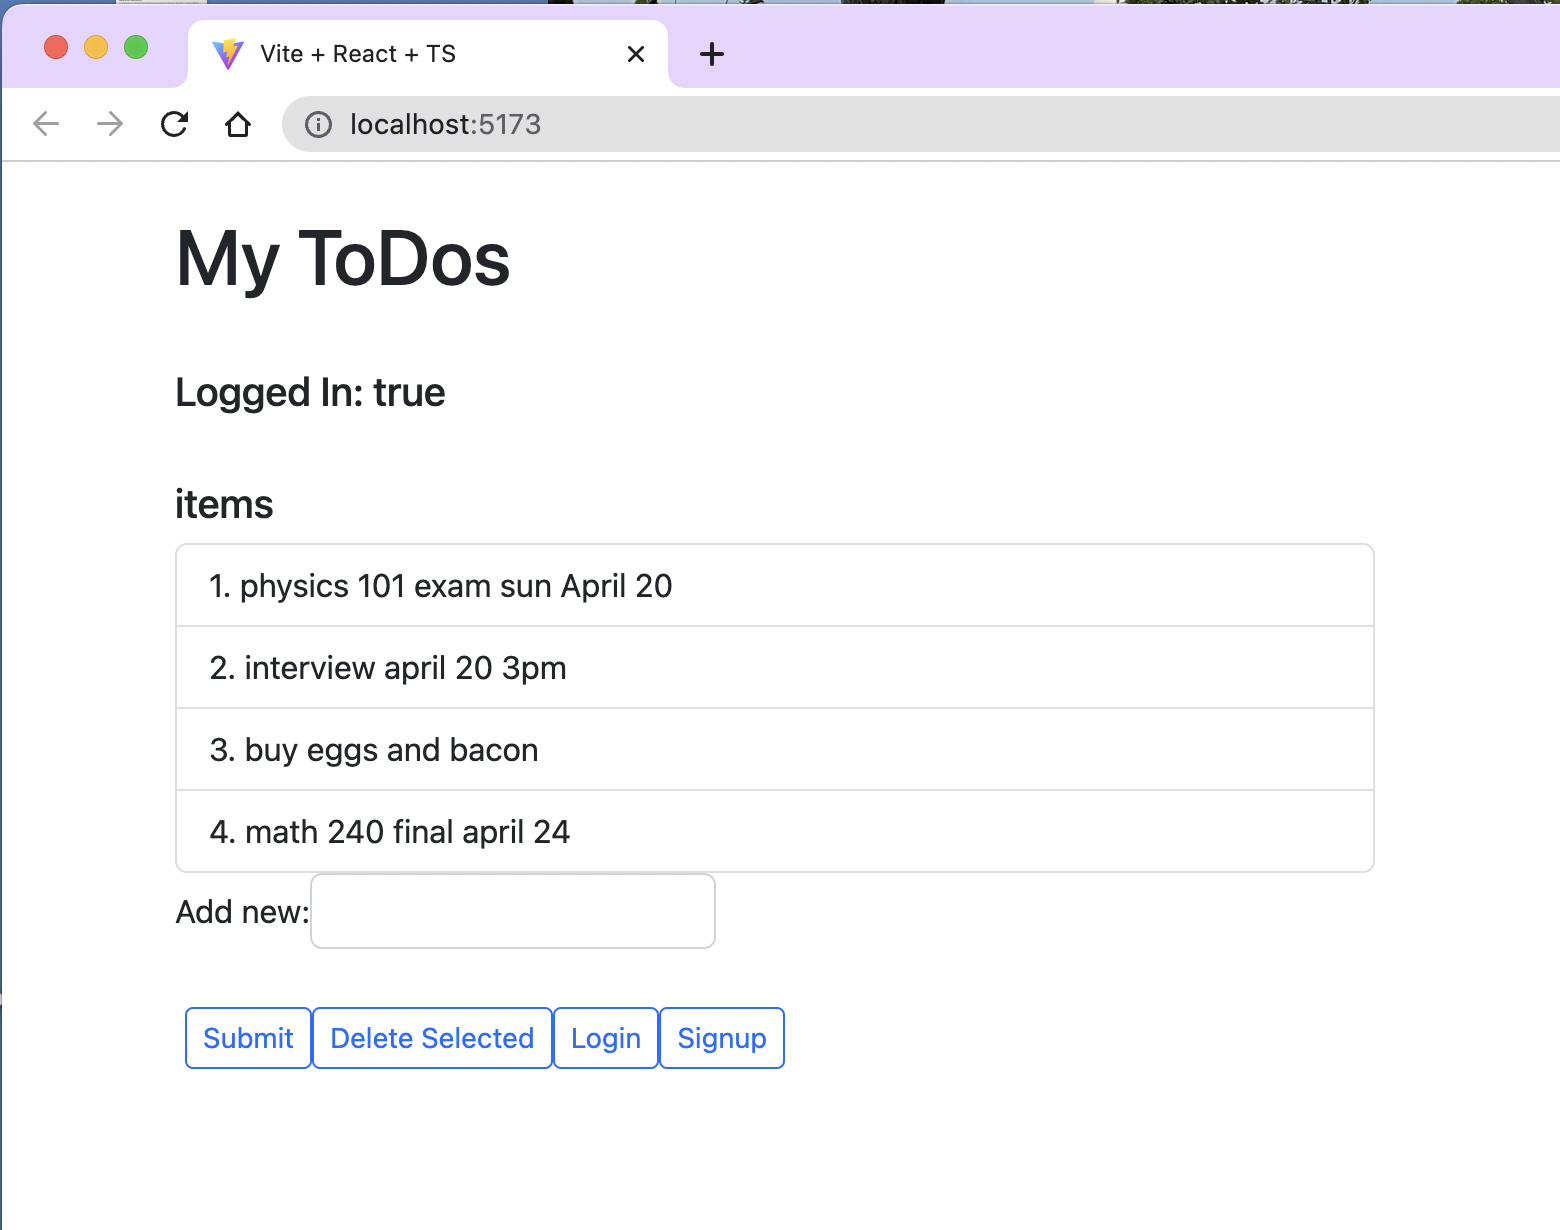
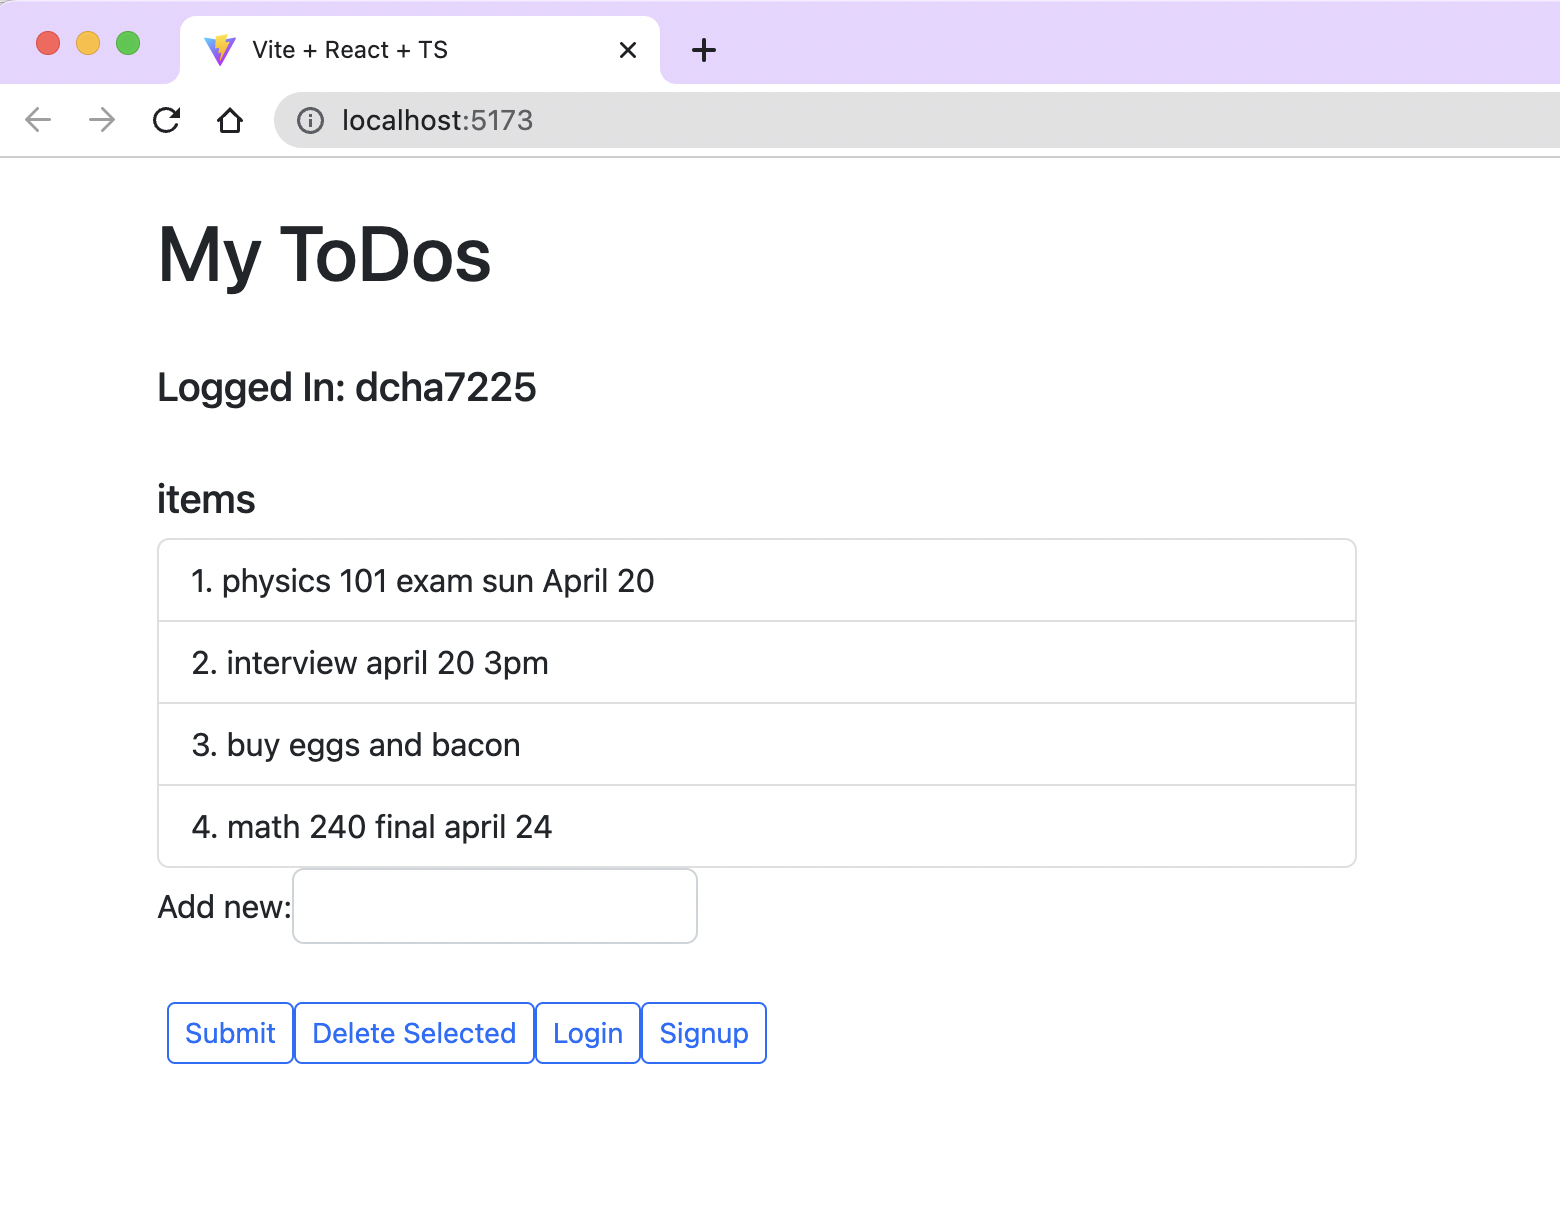
Changed username display

diff --git a/ellefa-frontend/src/App.tsx b/ellefa-frontend/src/App.tsx
@@ -48,7 +48,7 @@ function App() {
                 <>
                     <h1>My ToDos</h1>
                     <br />
-                    <h5>Logged In: {accountStatus ? "true" : "false"}</h5>
+                    <h5>Logged In: {accountStatus ? user : "None"}</h5>
                     <br />
                     <List
                         items={items}
